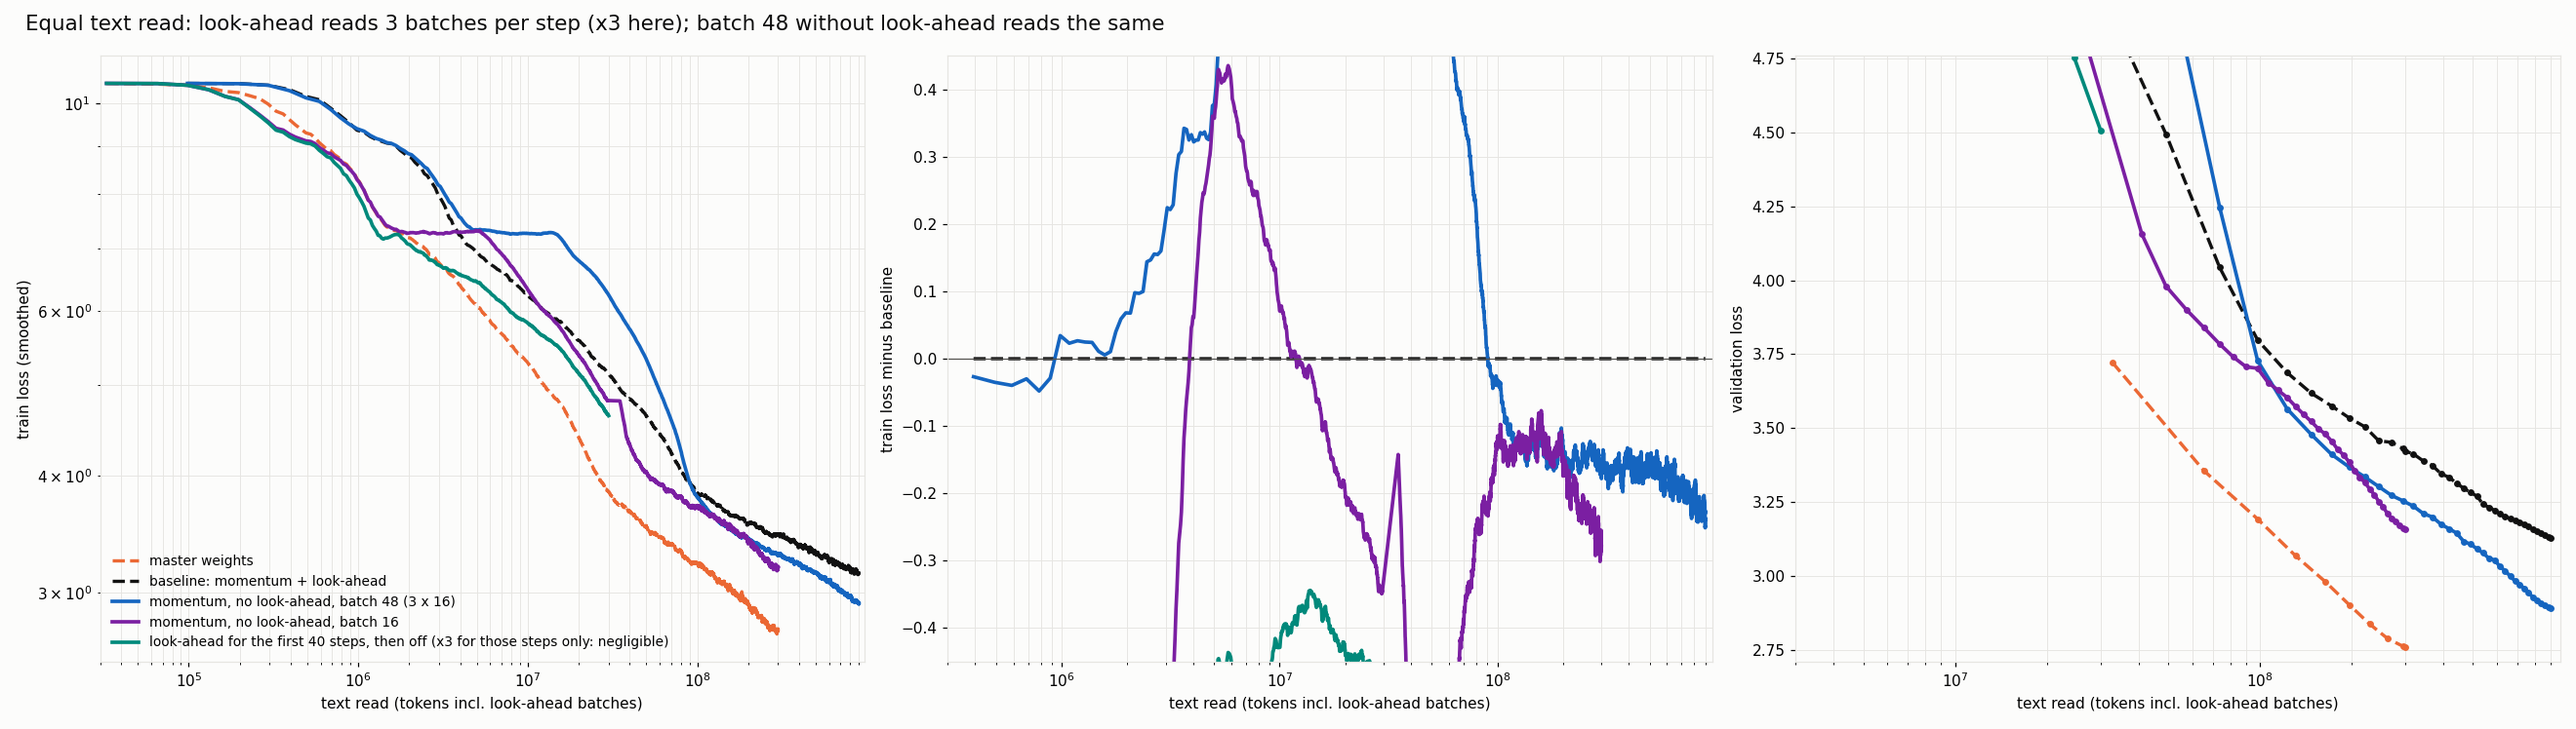
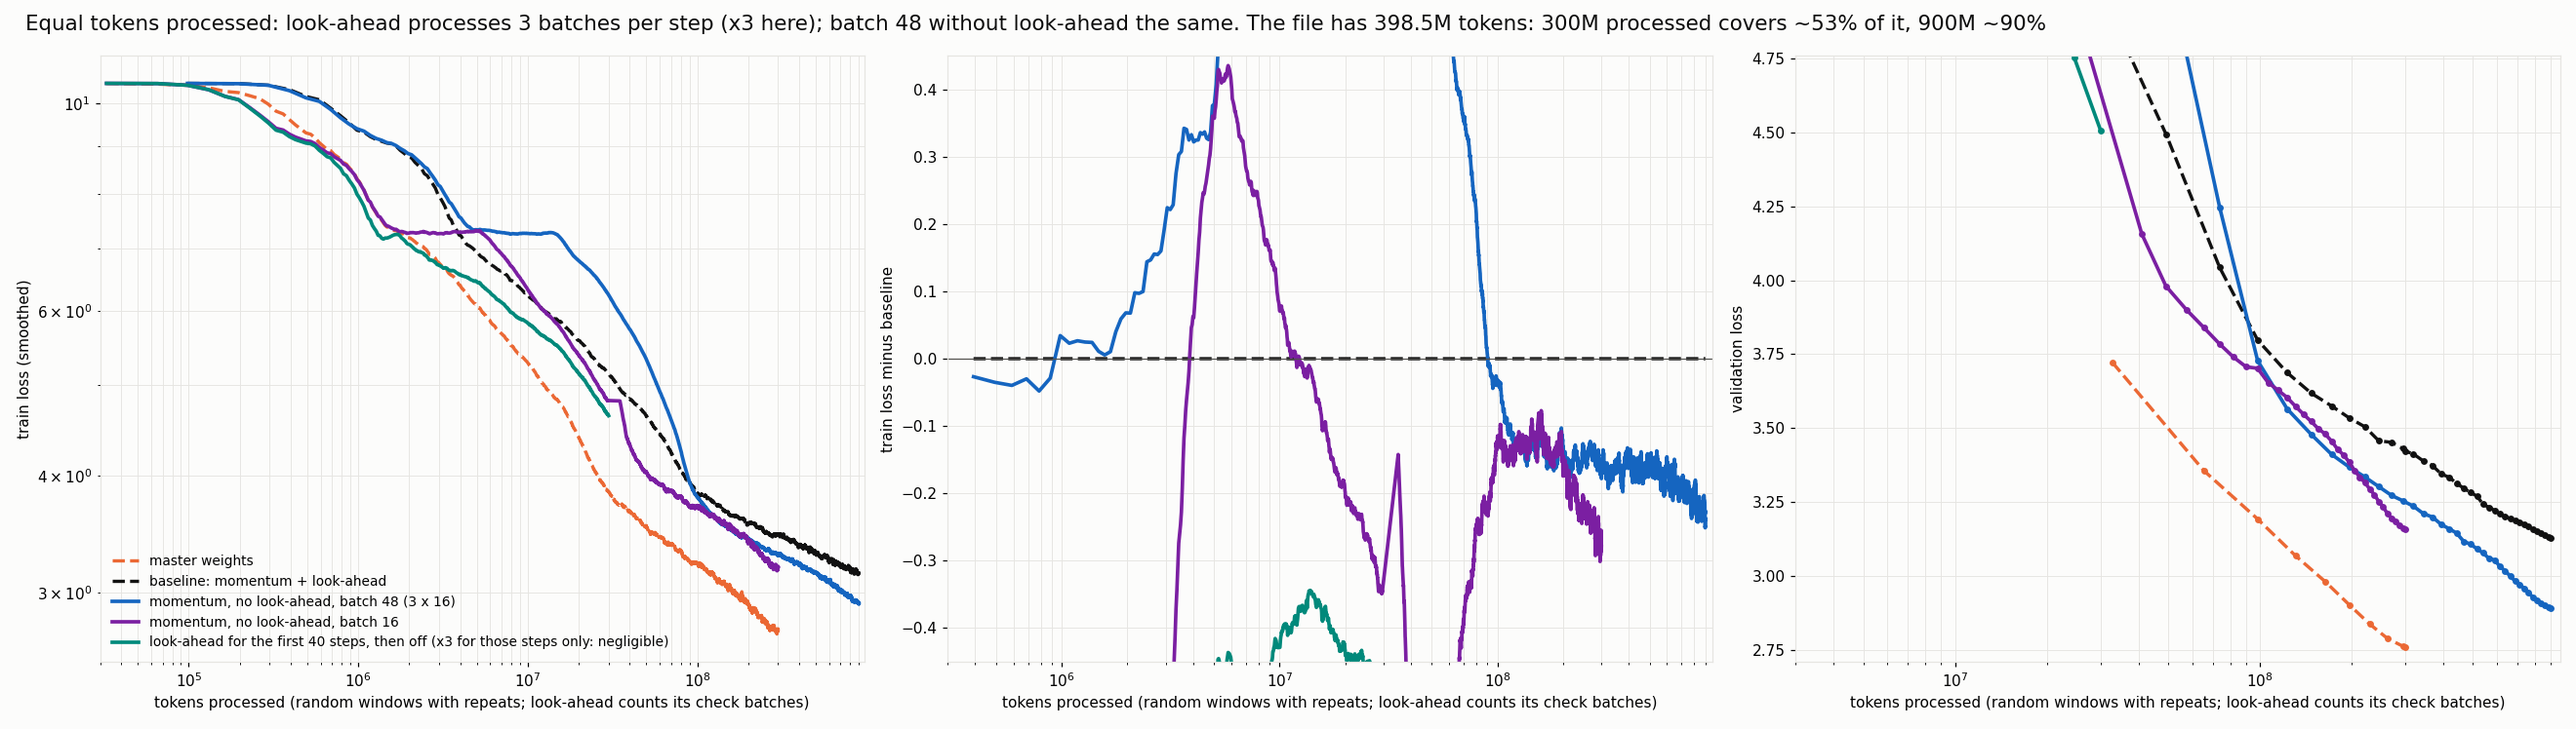
1/8 flip rate from scratch on mandarin; tokens-processed axis label; QUEUE.md

diff --git a/scripts/plots/plot_categories.py b/scripts/plots/plot_categories.py
@@ -44,7 +44,8 @@ CATS = {
         ("la40_off", "look-ahead for the first 40 steps only (1.3M), then off"),
         ("plateau_la", "look-ahead throughout (rerun with snapshots)"),
         ("nola_lab", "no look-ahead, full run")]),
-    "text_read": ("Equal text read: look-ahead reads 3 batches per step (x3 here); batch 48 without look-ahead reads the same", 9.2e8, [
+    "text_read": ("Equal tokens processed: look-ahead processes 3 batches per step (x3 here); batch 48 without look-ahead the same. "
+                  "The file has 398.5M tokens: 300M processed covers ~53% of it, 900M ~90%", 9.2e8, [
         ("nola_b48", "momentum, no look-ahead, batch 48 (3 x 16)"),
         ("nola_lab", "momentum, no look-ahead, batch 16"),
         ("la40_off30", "look-ahead for the first 40 steps, then off (x3 for those steps only: negligible)")]),
@@ -65,6 +66,7 @@ CATS = {
         ("mech_user_b131", "your design (gain 1), trained rate"),
         ("mech_user_q_b131", "your design (gain 1) at 1/4 of the rate"),
         ("small_step_s0", "plain momentum at 1/4 of the rate, from scratch"),
+        ("small_step8_s0", "plain momentum at 1/8 of the rate, from scratch"),
         ("accum33_s0", "accumulate then flip, from scratch")]),
     "momentum_fixes_20M": ("Momentum fixes, 20M from-scratch screens", 2.2e7, [
         ("s20_base", "baseline seed 0"), ("s20_base_seed1", "baseline seed 1"), ("s20_base_seed2", "baseline seed 2"),
@@ -120,7 +122,8 @@ for key, (title, tmax, runs) in CATS.items():
         dax.plot(t[md], smooth(L)[md] - base(t[md]), ls, color=c, lw=lw, label=lab)
         mv = vt <= tmax * 1.05
         if mv.any(): b.plot(vt[mv], V[mv], "o" + ls, color=c, lw=lw, ms=3.5, label=lab)
-    xl = "text read (tokens incl. look-ahead batches)" if key in XMULT else "tokens"
+    xl = ("tokens processed (random windows with repeats; look-ahead counts its check batches)" if key in XMULT
+          else "tokens")
     a.set(xscale="log", yscale="log", xlim=(3e4, tmax * 1.05), xlabel=xl, ylabel="train loss (smoothed)")
     b.set(xscale="log", xlim=(3e6 if tmax > 1e8 else 1e6, tmax * 1.05), xlabel=xl, ylabel="validation loss")
     vals = [x for d, *_ in lines if (r := load(d)) is not None

diff --git a/scripts/analysis/induction_track.py b/scripts/analysis/induction_track.py
@@ -8,7 +8,7 @@ import os, glob, re, json, torch, torch.nn.functional as F
 
 RUNS = {  # run dir: (loader kind, adapter kind for the loader or "")
     "curve_master": ("master", ""), "magadd16_qk": ("kernel", "add"), "magadd16_wd_qk": ("kernel", "add"),
-    "magadd_full": ("kernel", "add"), "lm_lowrank256_xb2_100M": ("kernel", ""), "nola_lab": ("kernel", ""), "nola_add16": ("kernel", "add"), "nola_then_la": ("kernel", ""), "la_sched": ("kernel", ""), "mech_v1_b131": ("kernel", ""), "mech_user_b131": ("kernel", ""), "mech_user_g0_b131": ("kernel", ""), "mech_v1_s0": ("kernel", ""), "mech_user_s0": ("kernel", ""), "mech_user_g0_s0": ("kernel", ""), "small_step_b131": ("kernel", ""), "accum33_b131": ("kernel", ""), "accum33_s0": ("kernel", ""), "small_step_s0": ("kernel", ""), "small_step8_lab": ("kernel", ""), "mech_user_q_b131": ("kernel", ""), "la_sched98": ("kernel", ""), "magadd16_qk_lab": ("kernel", "add"), "magadd16_wd_qk_lab": ("kernel", "add"),
+    "magadd_full": ("kernel", "add"), "lm_lowrank256_xb2_100M": ("kernel", ""), "nola_lab": ("kernel", ""), "nola_add16": ("kernel", "add"), "nola_then_la": ("kernel", ""), "la_sched": ("kernel", ""), "mech_v1_b131": ("kernel", ""), "mech_user_b131": ("kernel", ""), "mech_user_g0_b131": ("kernel", ""), "mech_v1_s0": ("kernel", ""), "mech_user_s0": ("kernel", ""), "mech_user_g0_s0": ("kernel", ""), "small_step_b131": ("kernel", ""), "accum33_b131": ("kernel", ""), "accum33_s0": ("kernel", ""), "small_step_s0": ("kernel", ""), "small_step8_lab": ("kernel", ""), "small_step8_s0": ("kernel", ""), "mech_user_q_b131": ("kernel", ""), "la_sched98": ("kernel", ""), "magadd16_qk_lab": ("kernel", "add"), "magadd16_wd_qk_lab": ("kernel", "add"),
 }
 CACHE = "checkpoints/induction_track.json"
 

diff --git a/docs/QUEUE.md b/docs/QUEUE.md
@@ -6,7 +6,7 @@ by the user with `bash ~/ternary-LLM/scripts/remote/start.sh SCRIPT`), **shovele
 PCs, at most two in use), **laptop**. Token counts are training tokens (32,768 per step at batch 16). From
 2026-09-27 on, new runs are without look-ahead.
 
-Last updated: 2026-09-28 13:50
+Last updated: 2026-09-28 14:10
 
 ## Now (28 Sep, 13:50)
 
@@ -18,7 +18,8 @@ Last updated: 2026-09-28 13:50
 | **cackling** | `small_step_s0` | plain momentum at 1/4 of the flip rate, from scratch -> 300M | ~15:30 |
 | | `mech_user_q_b131` | your design (gain 1) at 1/4 of the flip rate, branch 131M -> 300M | ~18:00 |
 | **mallard** (third lab PC, added 13:40) | `small_step8_lab` | plain momentum at 1/8 of the flip rate, branch 131M -> 300M | ~16:00 |
-| laptop | `small_step8_b131` | the same 1/8 run, slower copy (can be stopped) | ~18:00 |
+| **mandarin** (fourth lab PC, added 14:10) | `small_step8_s0` | plain momentum at 1/8 of the flip rate, from scratch -> 300M | ~17:30 |
+| laptop | `small_step8_b131` | the same 1/8 branch as mallard, slower copy (can be stopped) | ~18:00 |
 
 Early numbers (val): at step 4750 the 1/4-rate branch is at 3.342 vs 3.497 for the same run at the trained rate and
 3.457 for your design at the trained rate; accumulate-then-flip 3.443 at step 4250 (trained rate 3.546).
